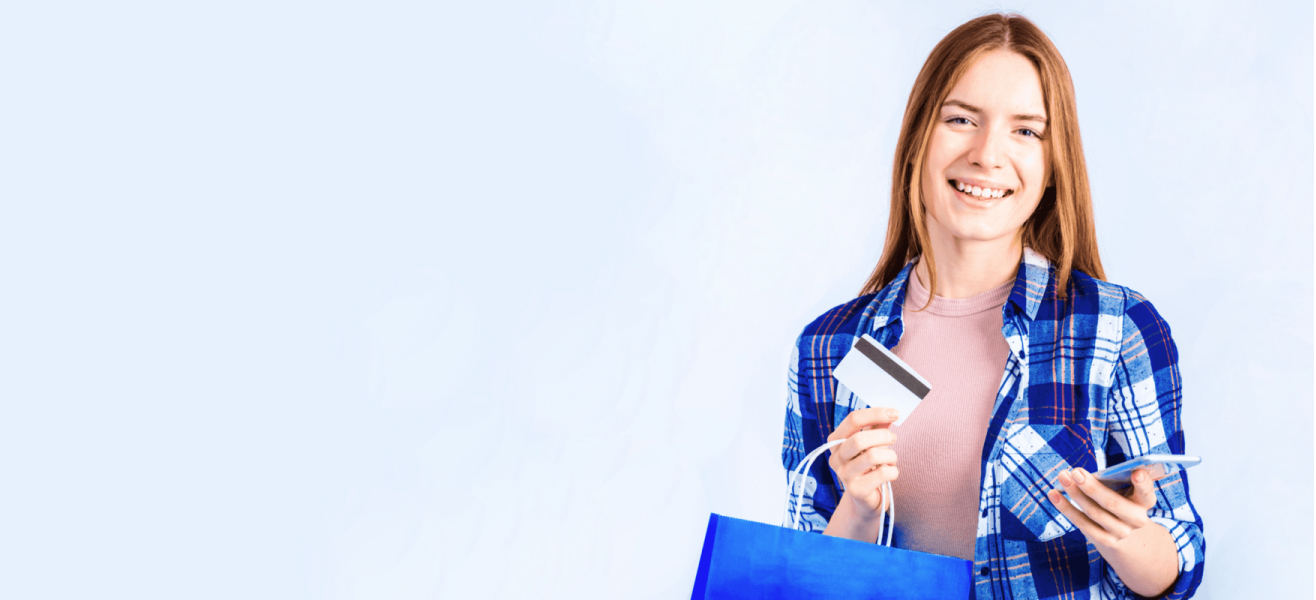
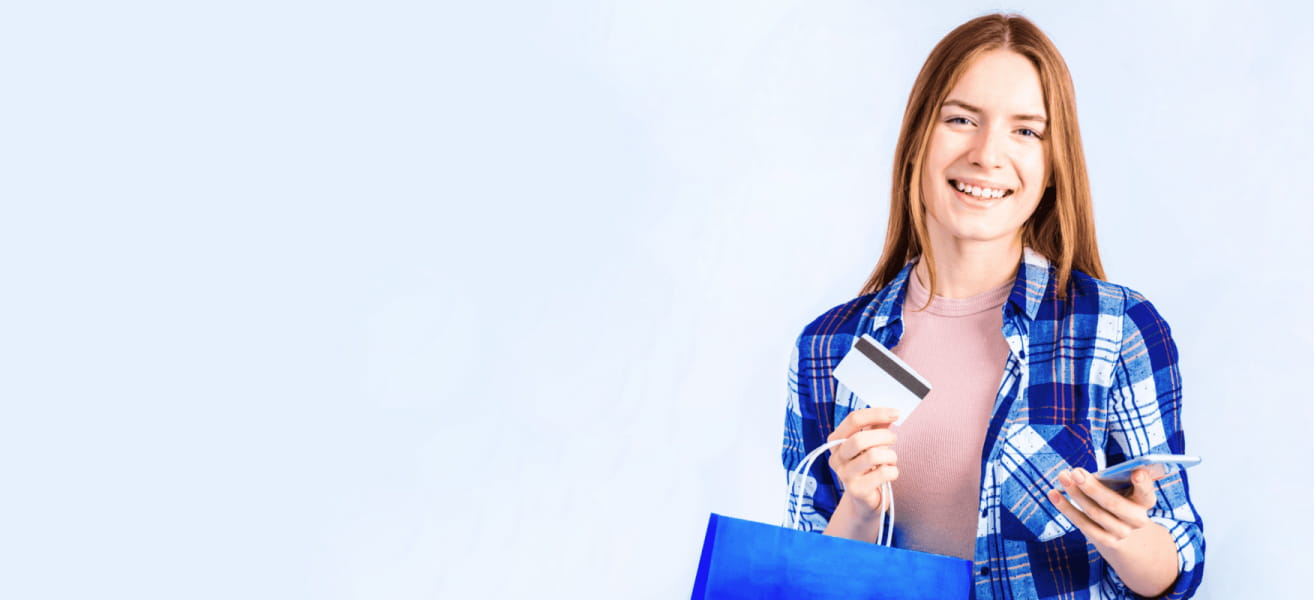
Оптимизирует графику

diff --git a/src/components/slider/sass/slide.scss b/src/components/slider/sass/slide.scss
@@ -66,10 +66,10 @@
 
   &--1 {
     background-color: $bg-dark;
-    background-image: url("../img/cards.png");
+    background-image: url("../img/cards.jpg");
 
     @media (min-resolution: 2dppx) {
-    background-image: url("../img/cards@2x.png");
+    background-image: url("../img/cards@2x.jpg");
     }
   }
 

diff --git a/src/components/branches/sass/branches.scss b/src/components/branches/sass/branches.scss
@@ -19,7 +19,7 @@
   width: 100%;
   height: 462px;
 
-  background-image: url('../img/map.png');
+  background-image: url('../img/map.jpg');
   background-position: center top;
   background-size: 1170px 462px;
 }
